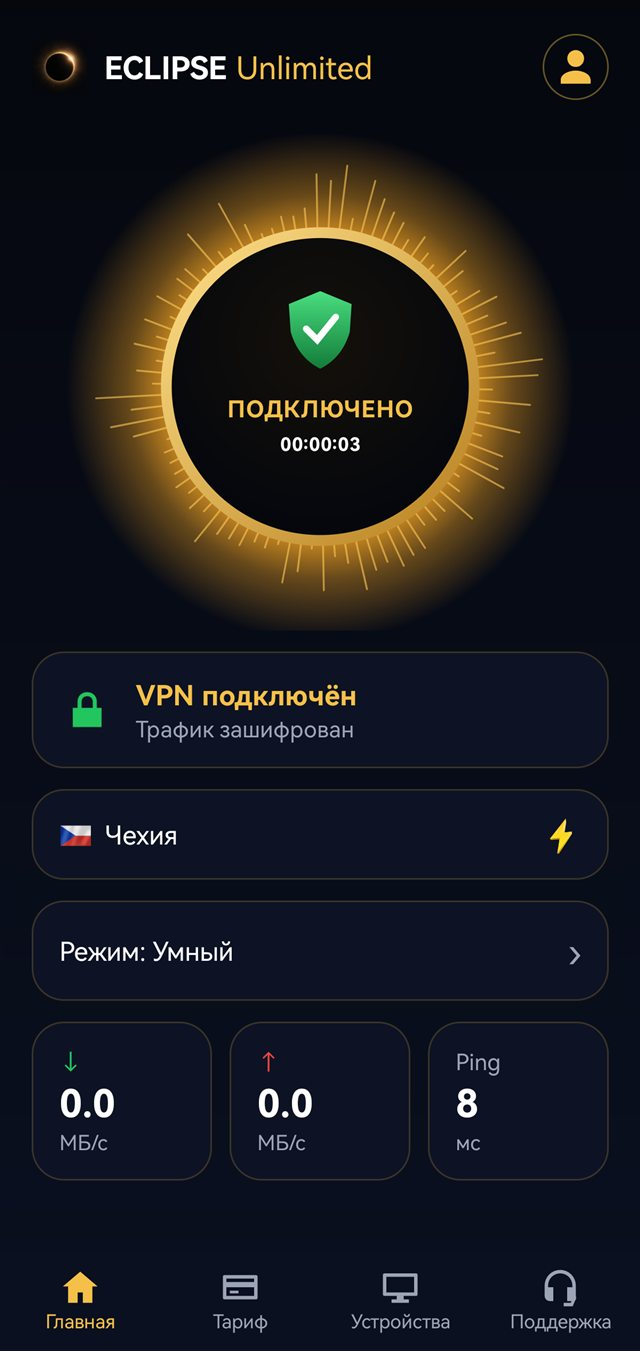
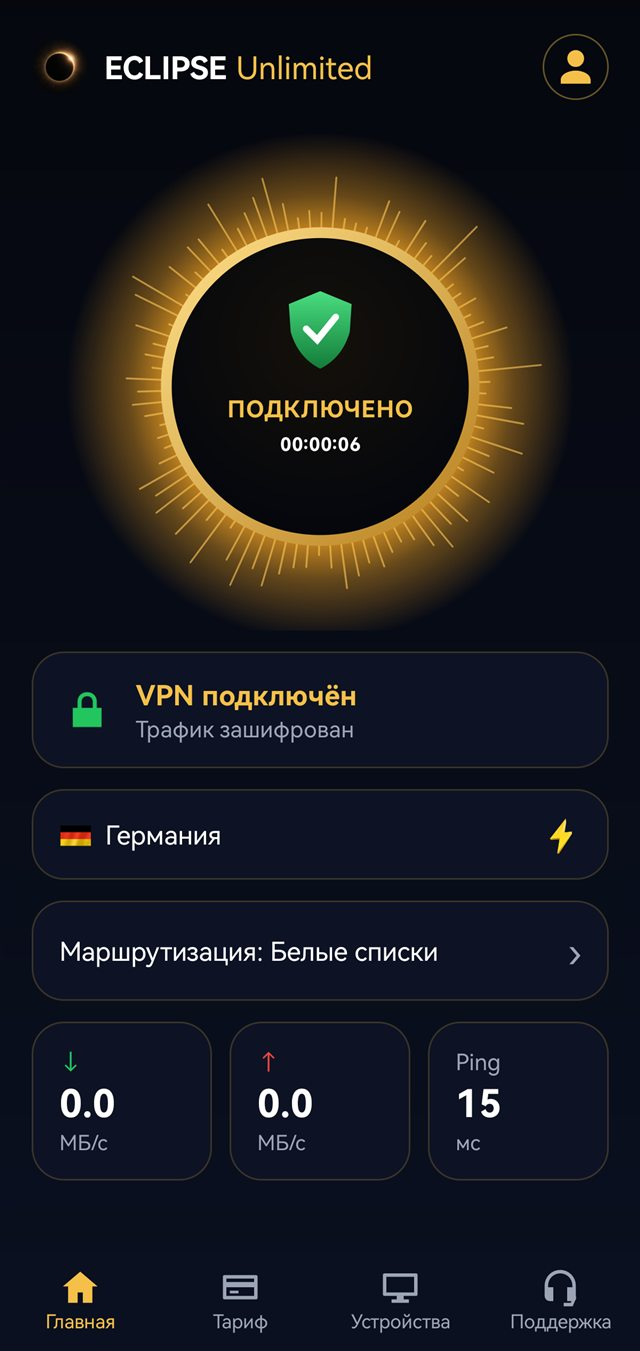
Версия 1.545: страница /app
+ Обновлены снимки и описание

diff --git a/bot/webapp/templates/app.html b/bot/webapp/templates/app.html
@@ -60,7 +60,8 @@ h1 .gold { color: #d69e4a; }
     <div class="shots" aria-label="Как выглядит приложение">
         <figure class="shot"><img src="/static/app-preview/connected.jpg" alt="Экран подключённого VPN" loading="lazy"><figcaption>Включается одной кнопкой</figcaption></figure>
         <figure class="shot"><img src="/static/app-preview/home.jpg" alt="Главный экран приложения" loading="lazy"><figcaption>Скорость и пинг всегда на виду</figcaption></figure>
-        <figure class="shot"><img src="/static/app-preview/modes.jpg" alt="Выбор режима работы" loading="lazy"><figcaption>Режим под вашу сеть</figcaption></figure>
+        <figure class="shot"><img src="/static/app-preview/modes.jpg" alt="Выбор маршрутизации" loading="lazy"><figcaption>Маршрутизация под вашу сеть</figcaption></figure>
+        <figure class="shot"><img src="/static/app-preview/light.jpg" alt="Светлая тема приложения" loading="lazy"><figcaption>Светлая и тёмная тема</figcaption></figure>
         <figure class="shot"><img src="/static/app-preview/login.jpg" alt="Вход в приложение" loading="lazy"><figcaption>Вход через Google, Яндекс или телефон</figcaption></figure>
     </div>
 
@@ -68,11 +69,12 @@ h1 .gold { color: #d69e4a; }
     <div class="perks">
         <div class="perk"><b>⚡ Подключение за секунды</b><span>Приложение само проверяет серверы и выбирает самый быстрый. Ничего не нужно копировать и настраивать.</span></div>
         <div class="perk"><b>🛡 Работает, даже если сервер упал</b><span>Если сервер перестал отвечать, VPN сам перейдёт на следующий, даже когда приложение закрыто.</span></div>
-        <div class="perk"><b>🧠 Умный режим</b><span>Российские сайты открываются напрямую, остальное идёт через VPN. Банки и сервисы работают как обычно.</span></div>
+        <div class="perk"><b>🧠 Умная маршрутизация</b><span>Российские сайты открываются напрямую, остальное идёт через VPN. Есть режим «Белые списки» для сетей с ограничениями.</span></div>
         <div class="perk"><b>💳 Всё внутри приложения</b><span>Покупка, продление, баланс и история платежей без переходов на сайт. Оплата картой, через СБП или с баланса.</span></div>
         <div class="perk"><b>💬 Помощник рядом</b><span>AI-поддержка прямо в приложении: задайте вопрос или приложите скриншот.</span></div>
         <div class="perk"><b>🔐 Только для вас</b><span>Вход по лицу, отпечатку или коду телефона. Включается по желанию.</span></div>
         <div class="perk"><b>🌘 Кнопка в шторке</b><span>Включайте и выключайте VPN из панели управления, не открывая приложение.</span></div>
+        <div class="perk"><b>🌗 Тема под настроение</b><span>Светлая, тёмная, как на телефоне или по времени суток.</span></div>
         <div class="perk"><b>🔄 Всегда свежая версия</b><span>Приложение обновляется само, скачивать файлы вручную больше не нужно.</span></div>
     </div>
 

diff --git a/CHANGELOG.md b/CHANGELOG.md
@@ -1,5 +1,6 @@
 # История версий ECLIPSE Unlimited VPN
 
+- **1.545** — страница /app: обновлены снимки и описание
 - **1.544** — AI-помощник: уточнены названия разделов
 - **1.543** — страница /app: презентация и описание
 - **1.542** — раздел лицензий: нумерация
